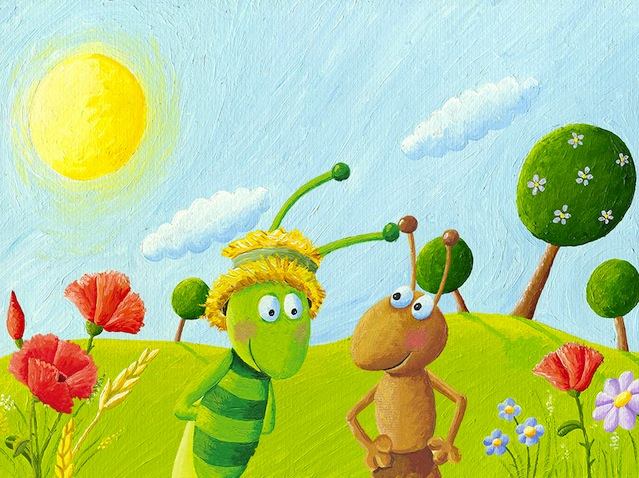
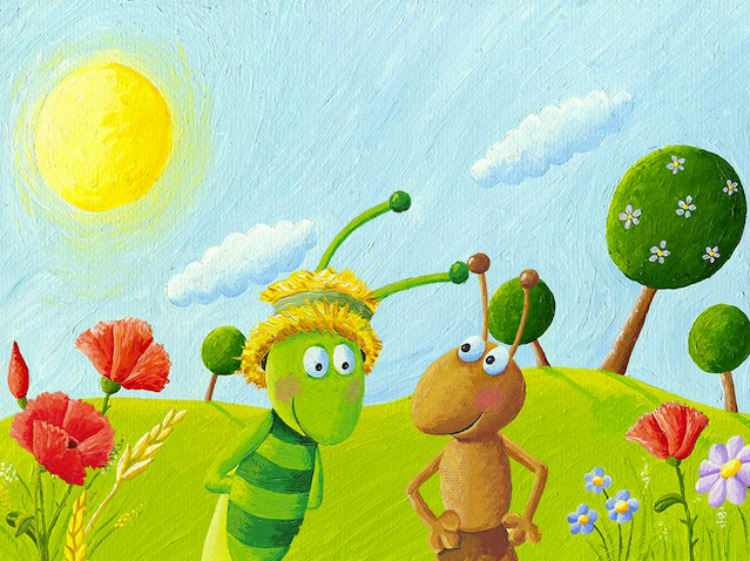
ArrumandoTelas

diff --git a/PCS/src/Contos/TheAnt.java b/PCS/src/Contos/TheAnt.java
@@ -31,7 +31,7 @@ public class TheAnt extends javax.swing.JFrame {
      */
     public TheAnt() {
         initComponents();
-        this.setSize(600, 360);
+        this.setSize(750, 450);
         this.setResizable(false);
         Dimension dim = Toolkit.getDefaultToolkit().getScreenSize();
         this.setLocation(dim.width/2-this.getSize().width/2, dim.height/2-this.getSize().height/2);
@@ -41,7 +41,7 @@ public class TheAnt extends javax.swing.JFrame {
     public TheAnt(String nome) {
         nomeUsuario = nome;
         initComponents();
-        this.setSize(600, 360);
+        this.setSize(750, 450);
         this.setResizable(false);
         Dimension dim = Toolkit.getDefaultToolkit().getScreenSize();
         this.setLocation(dim.width/2-this.getSize().width/2, dim.height/2-this.getSize().height/2);
@@ -74,7 +74,7 @@ public class TheAnt extends javax.swing.JFrame {
         jScrollPane2.setViewportView(jTextPane1);
 
         getContentPane().add(jScrollPane2);
-        jScrollPane2.setBounds(170, 20, 390, 210);
+        jScrollPane2.setBounds(40, 70, 650, 160);
 
         jButton1.setText("Avançar");
         jButton1.addMouseListener(new java.awt.event.MouseAdapter() {
@@ -88,7 +88,7 @@ public class TheAnt extends javax.swing.JFrame {
             }
         });
         getContentPane().add(jButton1);
-        jButton1.setBounds(510, 300, 94, 29);
+        jButton1.setBounds(630, 350, 100, 50);
 
         jButton3.setBackground(new java.awt.Color(200, 218, 235));
         jButton3.setText("Dica");
@@ -98,7 +98,7 @@ public class TheAnt extends javax.swing.JFrame {
             }
         });
         getContentPane().add(jButton3);
-        jButton3.setBounds(70, 90, 73, 50);
+        jButton3.setBounds(570, 230, 120, 40);
 
         jButton2.setText("Sair");
         jButton2.addActionListener(new java.awt.event.ActionListener() {
@@ -107,11 +107,11 @@ public class TheAnt extends javax.swing.JFrame {
             }
         });
         getContentPane().add(jButton2);
-        jButton2.setBounds(20, 300, 73, 29);
+        jButton2.setBounds(650, 410, 73, 23);
 
         jLabel1.setIcon(new javax.swing.ImageIcon(getClass().getResource("/Telas/theant.jpg"))); // NOI18N
         getContentPane().add(jLabel1);
-        jLabel1.setBounds(0, -10, 650, 440);
+        jLabel1.setBounds(0, -20, 800, 540);
 
         pack();
     }// </editor-fold>//GEN-END:initComponents

diff --git a/PCS/src/Contos/FoxGrapes.java b/PCS/src/Contos/FoxGrapes.java
@@ -35,7 +35,7 @@ public class FoxGrapes extends javax.swing.JFrame {
        // initComponents();
        // initComponents();
         initComponents();
-        this.setSize(640, 390);
+        this.setSize(750, 450);
         this.setResizable(false);
         Dimension dim = Toolkit.getDefaultToolkit().getScreenSize();
         this.setLocation(dim.width/2-this.getSize().width/2, dim.height/2-this.getSize().height/2);
@@ -77,7 +77,7 @@ public class FoxGrapes extends javax.swing.JFrame {
         jScrollPane2.setViewportView(jTextPane1);
 
         getContentPane().add(jScrollPane2);
-        jScrollPane2.setBounds(210, 20, 390, 210);
+        jScrollPane2.setBounds(50, 50, 630, 190);
 
         jButton3.setBackground(new java.awt.Color(200, 218, 235));
         jButton3.setText("Dica");
@@ -87,7 +87,7 @@ public class FoxGrapes extends javax.swing.JFrame {
             }
         });
         getContentPane().add(jButton3);
-        jButton3.setBounds(80, 90, 73, 50);
+        jButton3.setBounds(570, 240, 110, 40);
 
         jButton2.setText("Sair");
         jButton2.addActionListener(new java.awt.event.ActionListener() {
@@ -96,7 +96,7 @@ public class FoxGrapes extends javax.swing.JFrame {
             }
         });
         getContentPane().add(jButton2);
-        jButton2.setBounds(20, 320, 73, 23);
+        jButton2.setBounds(640, 400, 73, 23);
 
         jButton1.setText("Avançar");
         jButton1.addMouseListener(new java.awt.event.MouseAdapter() {
@@ -110,11 +110,11 @@ public class FoxGrapes extends javax.swing.JFrame {
             }
         });
         getContentPane().add(jButton1);
-        jButton1.setBounds(520, 320, 73, 23);
+        jButton1.setBounds(620, 360, 110, 40);
 
         jLabel1.setIcon(new javax.swing.ImageIcon(getClass().getResource("/Contos/fox2.jpg"))); // NOI18N
         getContentPane().add(jLabel1);
-        jLabel1.setBounds(0, 0, 630, 380);
+        jLabel1.setBounds(0, -40, 820, 570);
 
         pack();
     }// </editor-fold>//GEN-END:initComponents

diff --git a/PCS/src/Contos/Twopots.java b/PCS/src/Contos/Twopots.java
@@ -36,7 +36,7 @@ public class Twopots extends javax.swing.JFrame {
     public Twopots() {
        // initComponents();
         initComponents();
-        this.setSize(640, 390);
+        this.setSize(750, 450);
         this.setResizable(false);
         Dimension dim = Toolkit.getDefaultToolkit().getScreenSize();
         this.setLocation(dim.width/2-this.getSize().width/2, dim.height/2-this.getSize().height/2);
@@ -78,7 +78,7 @@ public class Twopots extends javax.swing.JFrame {
         jScrollPane2.setViewportView(jTextPane1);
 
         getContentPane().add(jScrollPane2);
-        jScrollPane2.setBounds(30, 20, 560, 160);
+        jScrollPane2.setBounds(70, 50, 630, 160);
 
         jButton1.setText("Avançar");
         jButton1.addMouseListener(new java.awt.event.MouseAdapter() {
@@ -92,7 +92,7 @@ public class Twopots extends javax.swing.JFrame {
             }
         });
         getContentPane().add(jButton1);
-        jButton1.setBounds(530, 320, 73, 23);
+        jButton1.setBounds(640, 350, 90, 40);
 
         jButton3.setBackground(new java.awt.Color(200, 218, 235));
         jButton3.setText("Dica");
@@ -102,7 +102,7 @@ public class Twopots extends javax.swing.JFrame {
             }
         });
         getContentPane().add(jButton3);
-        jButton3.setBounds(483, 240, 110, 30);
+        jButton3.setBounds(590, 210, 110, 30);
 
         jButton2.setText("Sair");
         jButton2.addActionListener(new java.awt.event.ActionListener() {
@@ -111,11 +111,11 @@ public class Twopots extends javax.swing.JFrame {
             }
         });
         getContentPane().add(jButton2);
-        jButton2.setBounds(20, 300, 73, 23);
+        jButton2.setBounds(650, 400, 73, 23);
 
         jLabel1.setIcon(new javax.swing.ImageIcon(getClass().getResource("/Contos/twopots.jpg"))); // NOI18N
         getContentPane().add(jLabel1);
-        jLabel1.setBounds(0, 0, 630, 360);
+        jLabel1.setBounds(30, 0, 730, 510);
 
         pack();
     }// </editor-fold>//GEN-END:initComponents
